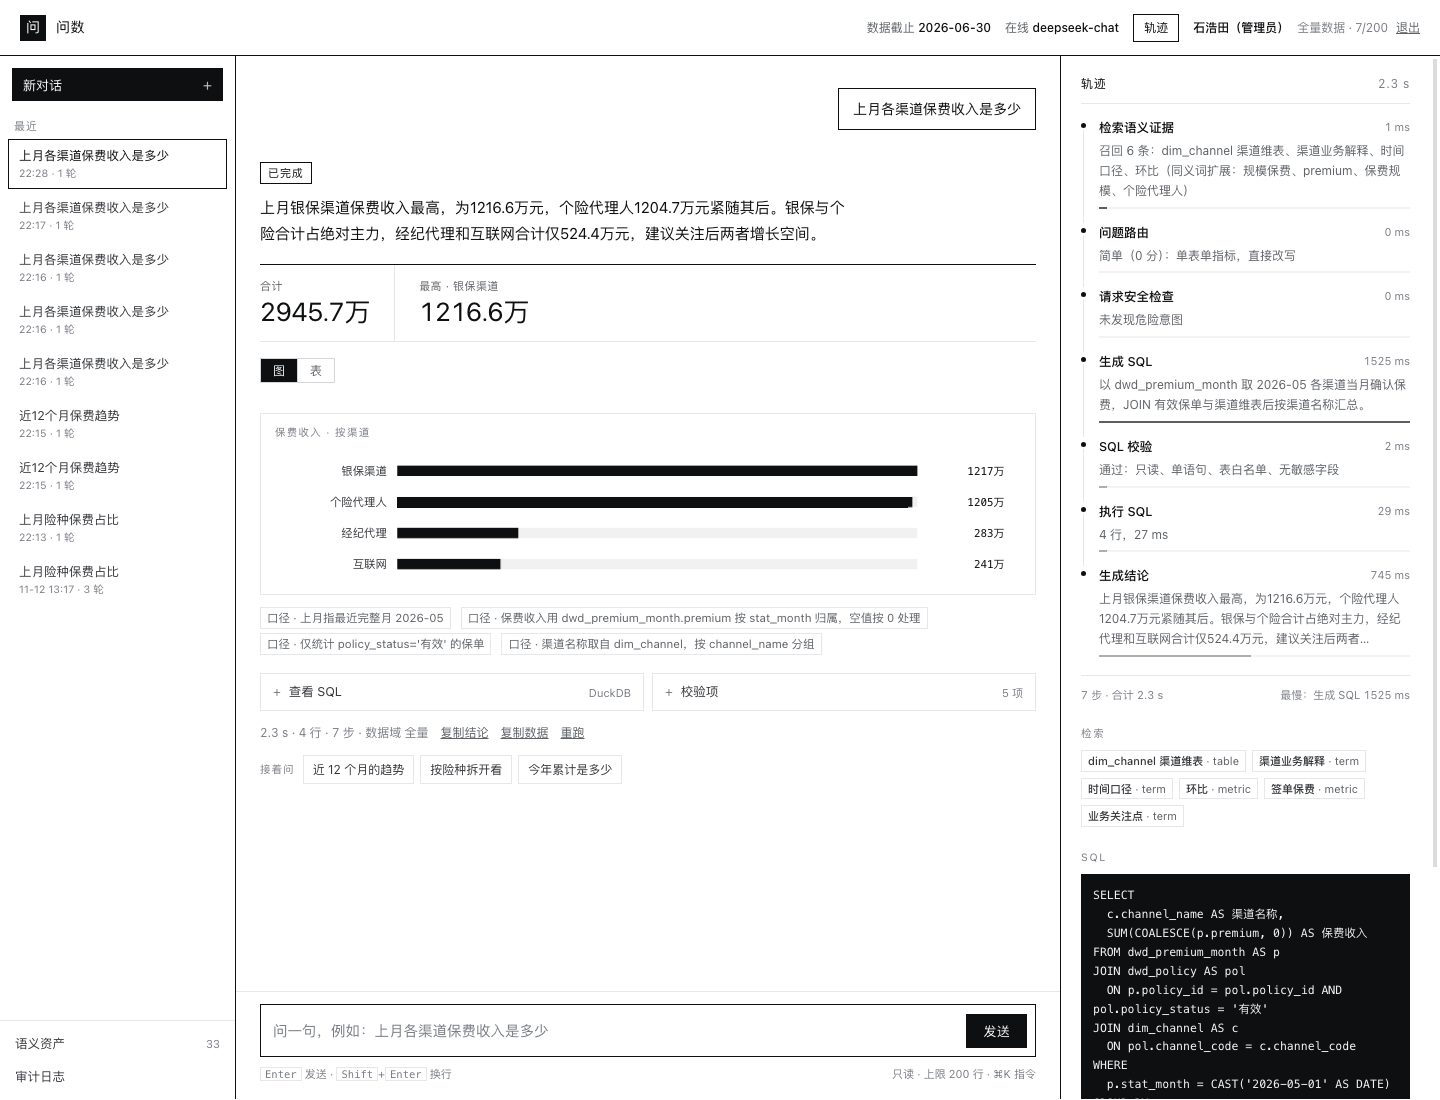
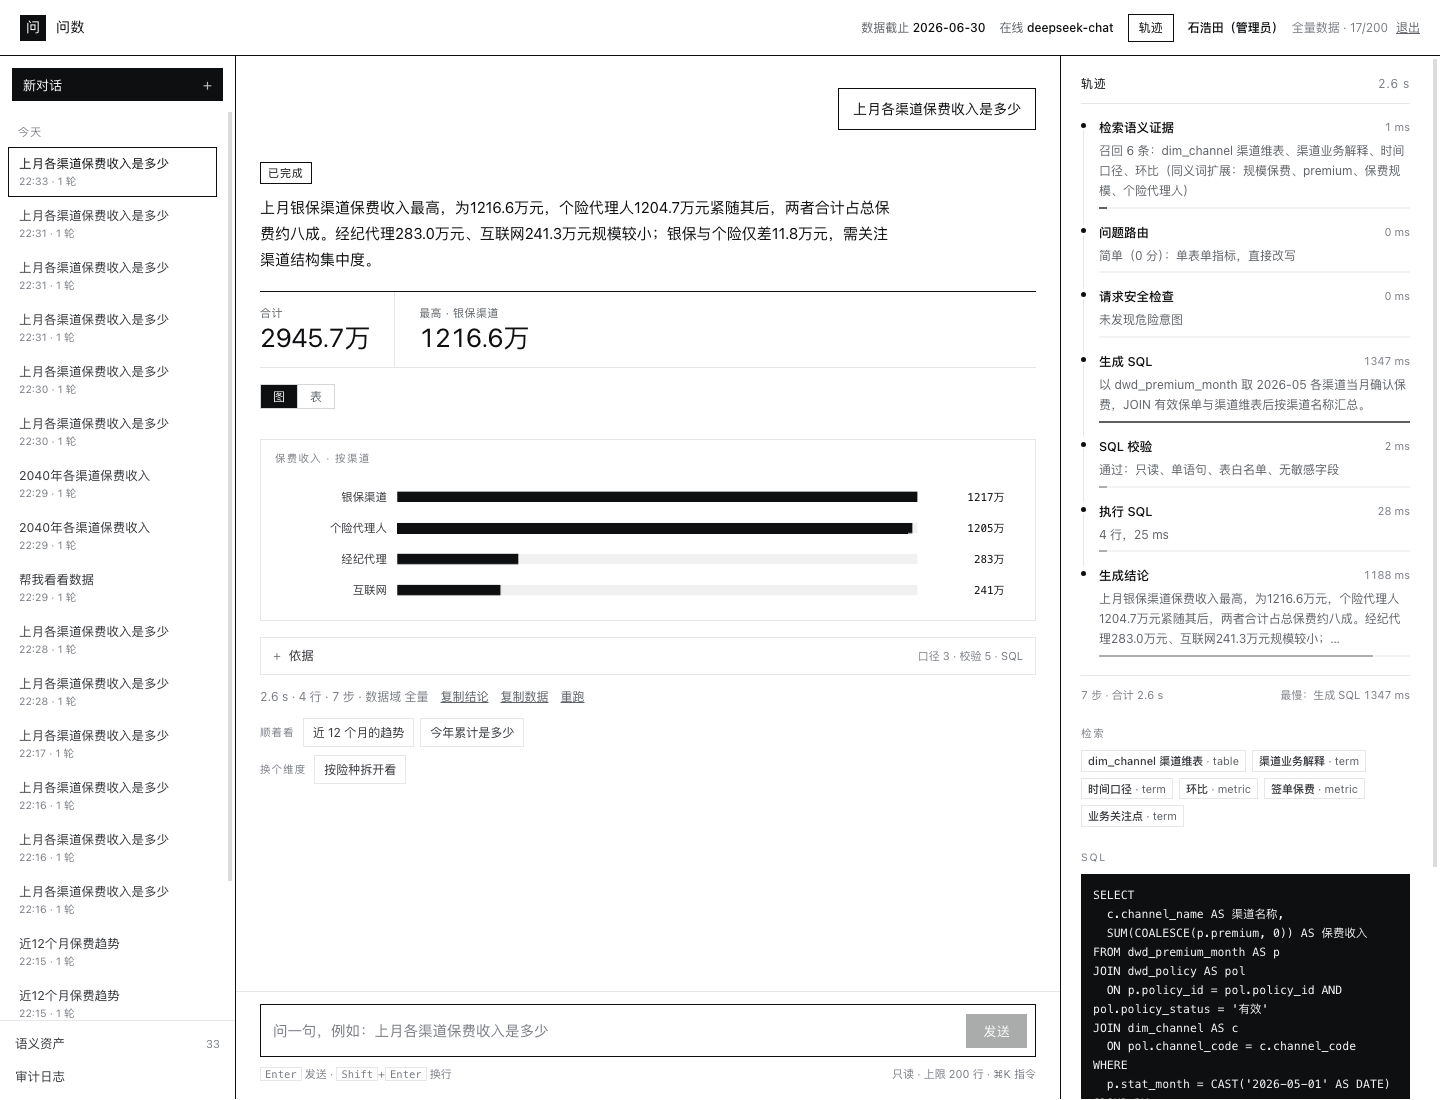
feat(web): 依据合并、追问分组、会话分组与发送态
- 口径/校验/SQL 合并为一行「依据」，展开分三段
- 追问按「顺着看 / 换个维度」分组
- 左栏会话按今天/昨天/更早分组，去掉重复的「最近」标题
- 表头吸附、空输入时发送按钮置灰
- docs/console.png 更新

diff --git a/web/app.js b/web/app.js
@@ -154,10 +154,21 @@
     });
   }
 
+  function convGroup(iso) {
+    const d = new Date(String(iso || '').replace(' ', 'T'));
+    if (Number.isNaN(d.getTime())) return '更早';
+    const now = new Date();
+    const same = (a, b) => a.getFullYear() === b.getFullYear() && a.getMonth() === b.getMonth() && a.getDate() === b.getDate();
+    if (same(d, now)) return '今天';
+    if (same(d, new Date(now.getTime() - 86400000))) return '昨天';
+    return '更早';
+  }
+
   function renderConvList(items) {
     const box = $('#conv-list');
     if (!box) return;
     box.innerHTML = '';
+    let lastGroup = '';
     if (!items.length) {
       box.innerHTML = '<div class="conv-empty">还没有对话</div>';
       return;
@@ -192,6 +203,15 @@
       });
       btn.appendChild(del);
       btn.addEventListener('click', () => openConversation(it.id));
+
+      const group = convGroup(it.updated_at);
+      if (group !== lastGroup) {
+        const g = document.createElement('div');
+        g.className = 'conv-group';
+        g.textContent = group;
+        box.appendChild(g);
+        lastGroup = group;
+      }
       box.appendChild(btn);
     });
   }
@@ -900,14 +920,19 @@
   function followUps(data) {
     const q = data.question || '';
     const cols = (data.columns || []).join(' ');
-    const out = [];
-    if (!/趋势|按月|每月|走势/.test(q)) out.push('近 12 个月的趋势');
+    const along = [];
+    const across = [];
+    if (!/趋势|按月|每月|走势/.test(q)) along.push('近 12 个月的趋势');
+    if (!/今年|累计|年至今/.test(q)) along.push('今年累计是多少');
     const hasChannel = /渠道/.test(q + cols);
     const hasProduct = /险种|产品/.test(q + cols);
-    if (hasChannel && !hasProduct) out.push('按险种拆开看');
-    if (hasProduct && !hasChannel) out.push('按渠道拆开看');
-    if (!/今年|累计|年至今/.test(q)) out.push('今年累计是多少');
-    return out.slice(0, 3);
+    if (hasChannel && !hasProduct) across.push('按险种拆开看');
+    if (hasProduct && !hasChannel) across.push('按渠道拆开看');
+    if (!hasChannel && !hasProduct) across.push('按渠道拆开看');
+    return [
+      { label: '顺着看', items: along.slice(0, 2) },
+      { label: '换个维度', items: across.slice(0, 2) },
+    ].filter((g) => g.items.length);
   }
 
   function renderFinal(view, data) {
@@ -977,30 +1002,8 @@
       }
     }
 
-    if (data.assumptions?.length) {
-      const box = document.createElement('div');
-      box.className = 'assumptions';
-      box.innerHTML = data.assumptions.map((a) => `<span class="tag">${esc(a)}</span>`).join('');
-      bubble.appendChild(box);
-    }
-
-    if (data.sql || (data.checks || []).length) {
-      const folds = document.createElement('div');
-      folds.className = 'folds';
-      const sqlText = data.sql_pretty || data.sql;
-      if (sqlText) folds.appendChild(sqlFold(sqlText));
-      if ((data.checks || []).length) {
-        const det = document.createElement('details');
-        det.className = 'fold';
-        det.innerHTML = `<summary>校验项<span class="count">${data.checks.length} 项</span></summary>`;
-        const body = document.createElement('div');
-        body.className = 'fold-body';
-        body.appendChild(checksList(data.checks));
-        det.appendChild(body);
-        folds.appendChild(det);
-      }
-      bubble.appendChild(folds);
-    }
+    const basis = basisFold(data);
+    if (basis) bubble.appendChild(basis);
 
     const meta = document.createElement('div');
     meta.className = 'meta-row';
@@ -1040,21 +1043,26 @@
     bubble.appendChild(meta);
 
     if (data.status === 'ok') {
-      const tips = followUps(data);
-      if (tips.length) {
+      const groups = followUps(data);
+      if (groups.length) {
         const row = document.createElement('div');
         row.className = 'follow-ups';
-        const label = document.createElement('span');
-        label.className = 'fu-label';
-        label.textContent = '接着问';
-        row.appendChild(label);
-        tips.forEach((t) => {
-          const b = document.createElement('button');
-          b.type = 'button';
-          b.className = 'fu-chip';
-          b.textContent = t;
-          b.addEventListener('click', () => submit(t));
-          row.appendChild(b);
+        groups.forEach((g) => {
+          const block = document.createElement('div');
+          block.className = 'fu-group';
+          const label = document.createElement('span');
+          label.className = 'fu-label';
+          label.textContent = g.label;
+          block.appendChild(label);
+          g.items.forEach((t) => {
+            const b = document.createElement('button');
+            b.type = 'button';
+            b.className = 'fu-chip';
+            b.textContent = t;
+            b.addEventListener('click', () => submit(t));
+            block.appendChild(b);
+          });
+          row.appendChild(block);
         });
         bubble.appendChild(row);
       }
@@ -1070,6 +1078,62 @@
     withBars();
     traceSummary();
     revealAnswer(view.root);
+  }
+
+  function basisFold(data) {
+    const assumptions = data.assumptions || [];
+    const checks = data.checks || [];
+    const sqlText = data.sql_pretty || data.sql;
+    if (!assumptions.length && !checks.length && !sqlText) return null;
+
+    const count = [
+      assumptions.length ? `口径 ${assumptions.length}` : '',
+      checks.length ? `校验 ${checks.length}` : '',
+      sqlText ? 'SQL' : '',
+    ].filter(Boolean).join(' · ');
+
+    const det = document.createElement('details');
+    det.className = 'fold basis';
+    det.innerHTML = `<summary>依据<span class="count">${count}</span></summary>`;
+    const body = document.createElement('div');
+    body.className = 'fold-body';
+
+    if (assumptions.length) {
+      const sec = document.createElement('div');
+      sec.className = 'basis-sec';
+      sec.innerHTML = `<span class="basis-k">口径</span><div class="basis-tags">${assumptions
+        .map((a) => `<span class="tag">${esc(a)}</span>`).join('')}</div>`;
+      body.appendChild(sec);
+    }
+    if (checks.length) {
+      const sec = document.createElement('div');
+      sec.className = 'basis-sec';
+      sec.innerHTML = '<span class="basis-k">校验</span>';
+      sec.appendChild(checksList(checks));
+      body.appendChild(sec);
+    }
+    if (sqlText) {
+      const sec = document.createElement('div');
+      sec.className = 'basis-sec';
+      sec.innerHTML = '<span class="basis-k">SQL</span>';
+      const pre = document.createElement('pre');
+      pre.className = 'sql';
+      pre.textContent = sqlText;
+      sec.appendChild(pre);
+      const btn = document.createElement('button');
+      btn.type = 'button';
+      btn.className = 'ghost-btn';
+      btn.style.marginTop = '8px';
+      btn.textContent = '复制 SQL';
+      btn.addEventListener('click', async () => {
+        btn.textContent = await copyText(sqlText);
+        setTimeout(() => (btn.textContent = '复制 SQL'), 1500);
+      });
+      sec.appendChild(btn);
+      body.appendChild(sec);
+    }
+    det.appendChild(body);
+    return det;
   }
 
   function sqlFold(sql) {
@@ -1197,8 +1261,15 @@
     const q = input.value;
     input.value = '';
     autoGrow();
+    syncSendState();
     submit(q);
   });
+
+  syncSendState();
+  function syncSendState() {
+    if (sendBtn && !busy) sendBtn.setAttribute('aria-disabled', String(!input.value.trim()));
+  }
+  input.addEventListener('input', syncSendState);
 
   input.addEventListener('keydown', (e) => {
     if (e.key === 'Enter' && !e.shiftKey && !e.isComposing) {

diff --git a/web/style.css b/web/style.css
@@ -509,7 +509,9 @@ kbd { border: 1px solid var(--line); padding: 0 4px; font-family: var(--mono); f
 .status.running { border-style: dashed; }
 .bubble .answer.is-pending { color: var(--muted); animation: sq-pulse 1.5s ease-in-out infinite; }
 
-/* 表格：行悬停与首列固定 */
+/* 表格：表头吸附、行悬停与首列固定 */
+table.result thead th { position: sticky; top: 0; z-index: 2; background: var(--soft); }
+.send[aria-disabled="true"] { opacity: .35; cursor: default; }
 table.result tbody tr:hover td { background: #fafafa; }
 table.result th:first-child, table.result td:first-child { position: sticky; left: 0; background: var(--bg); }
 table.result tbody tr:hover td:first-child { background: #fafafa; }
@@ -755,3 +757,26 @@ table.result thead th:first-child { background: var(--soft); }
 .skeleton i:nth-child(2) { width: 54%; }
 .skeleton i:nth-child(3) { width: 88%; height: 96px; }
 @media (prefers-reduced-motion: reduce) { .skeleton i { animation: none; } }
+
+/* ---------------------------------------------------------------- 依据（口径/校验/SQL 合一） */
+.basis { margin-top: var(--sp-4); }
+.basis .fold-body { padding-top: var(--sp-2); }
+.basis-sec { display: flex; gap: var(--sp-3); padding: 10px 0; border-top: 1px solid var(--line-200); }
+.basis-sec:first-child { border-top: 0; padding-top: 2px; }
+.basis-k {
+  flex: 0 0 34px; font-size: var(--fs-11); letter-spacing: .12em;
+  color: var(--ink-500); padding-top: 2px;
+}
+.basis-tags { display: flex; flex-wrap: wrap; gap: 6px; }
+.basis-tags .tag {
+  font-size: var(--fs-12); color: var(--ink-500);
+  border: 1px solid var(--line-200); padding: 1px 7px;
+}
+.basis pre.sql { margin: 0; }
+
+.follow-ups { flex-direction: column; align-items: flex-start; gap: var(--sp-2); }
+.fu-group { display: flex; flex-wrap: wrap; align-items: center; gap: 6px; }
+.conv-group {
+  font-size: var(--fs-11); letter-spacing: .12em; color: var(--ink-400);
+  padding: 14px 10px 6px;
+}

diff --git a/web/index.html b/web/index.html
@@ -34,7 +34,6 @@
         <span>新对话</span><span class="side-new-plus">+</span>
       </button>
     </div>
-    <div class="side-label">最近</div>
     <nav class="conv-list" id="conv-list"></nav>
     <div class="side-foot">
       <button class="side-link" id="open-drawer">语义资产 <span class="side-count" id="card-count">—</span></button>
